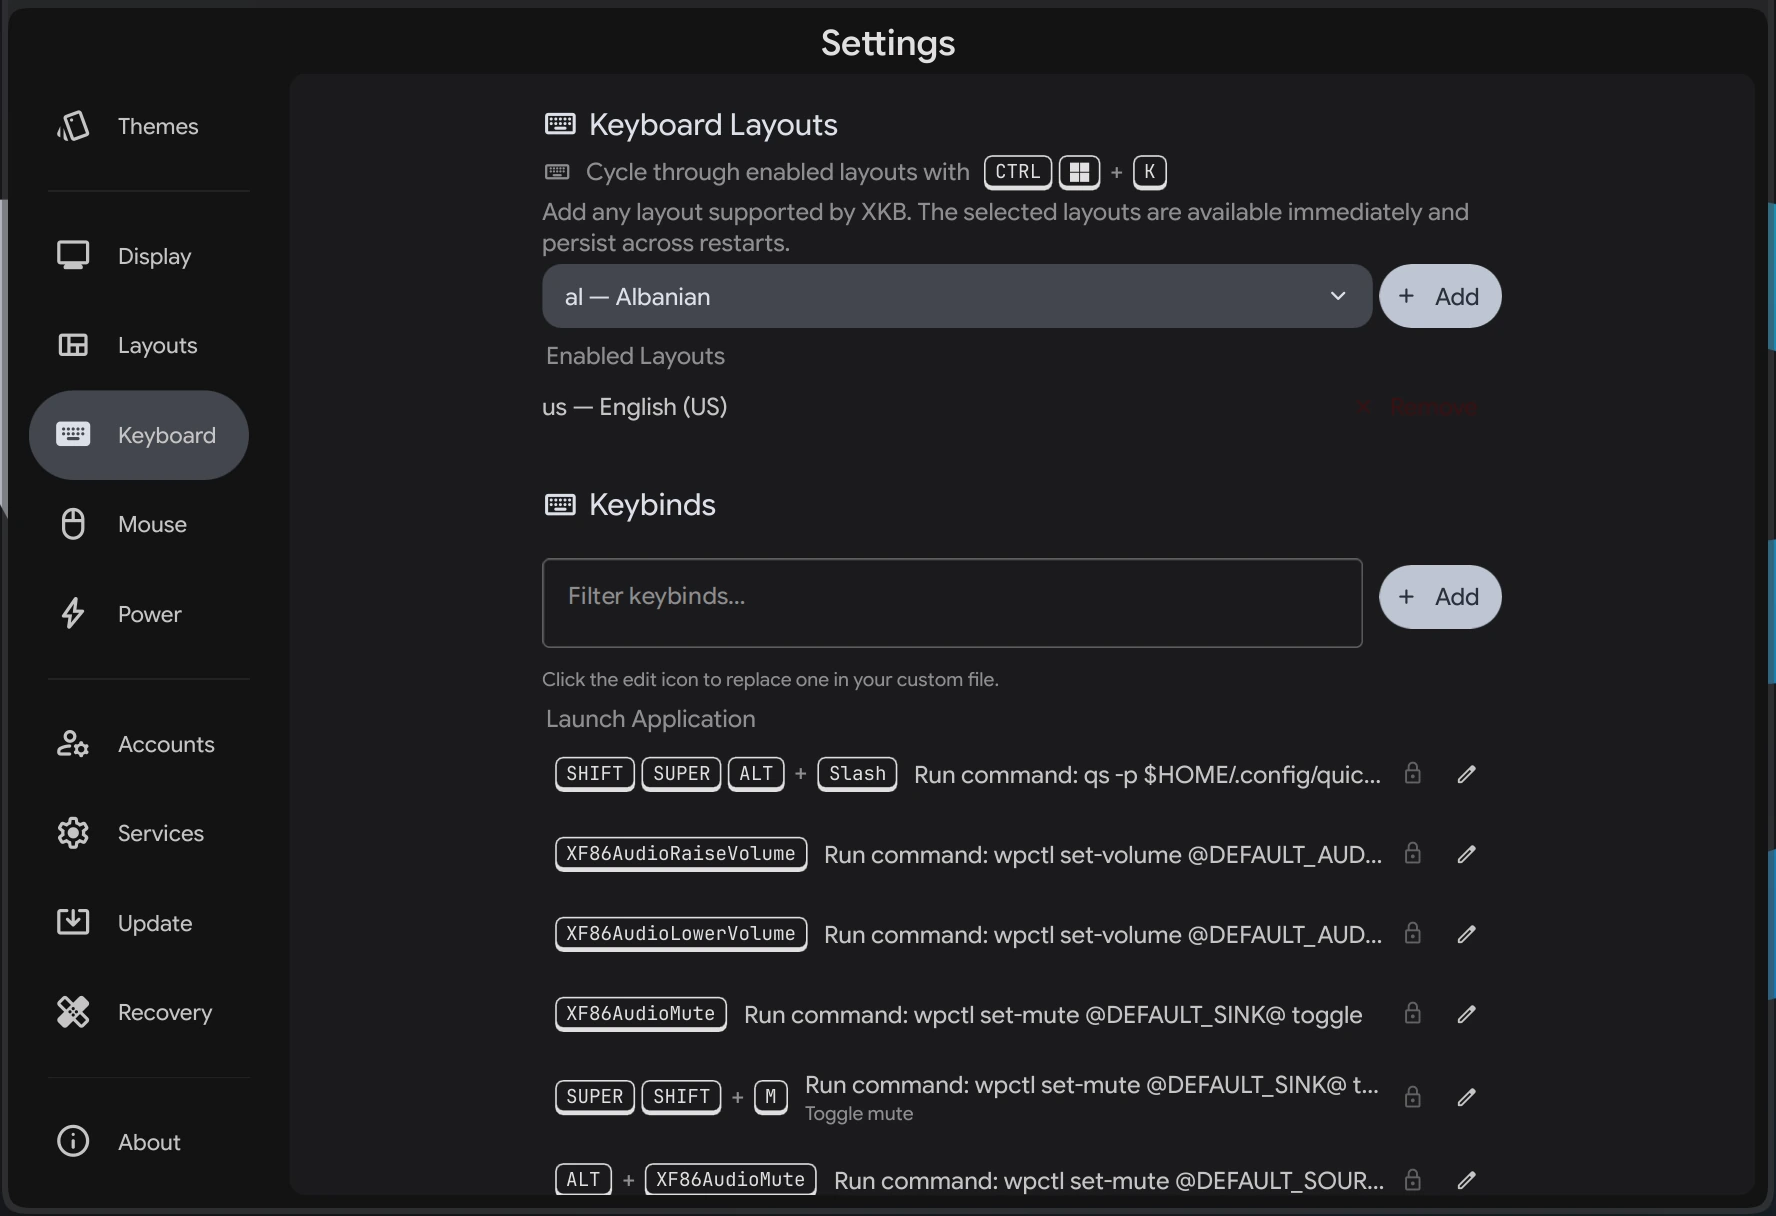
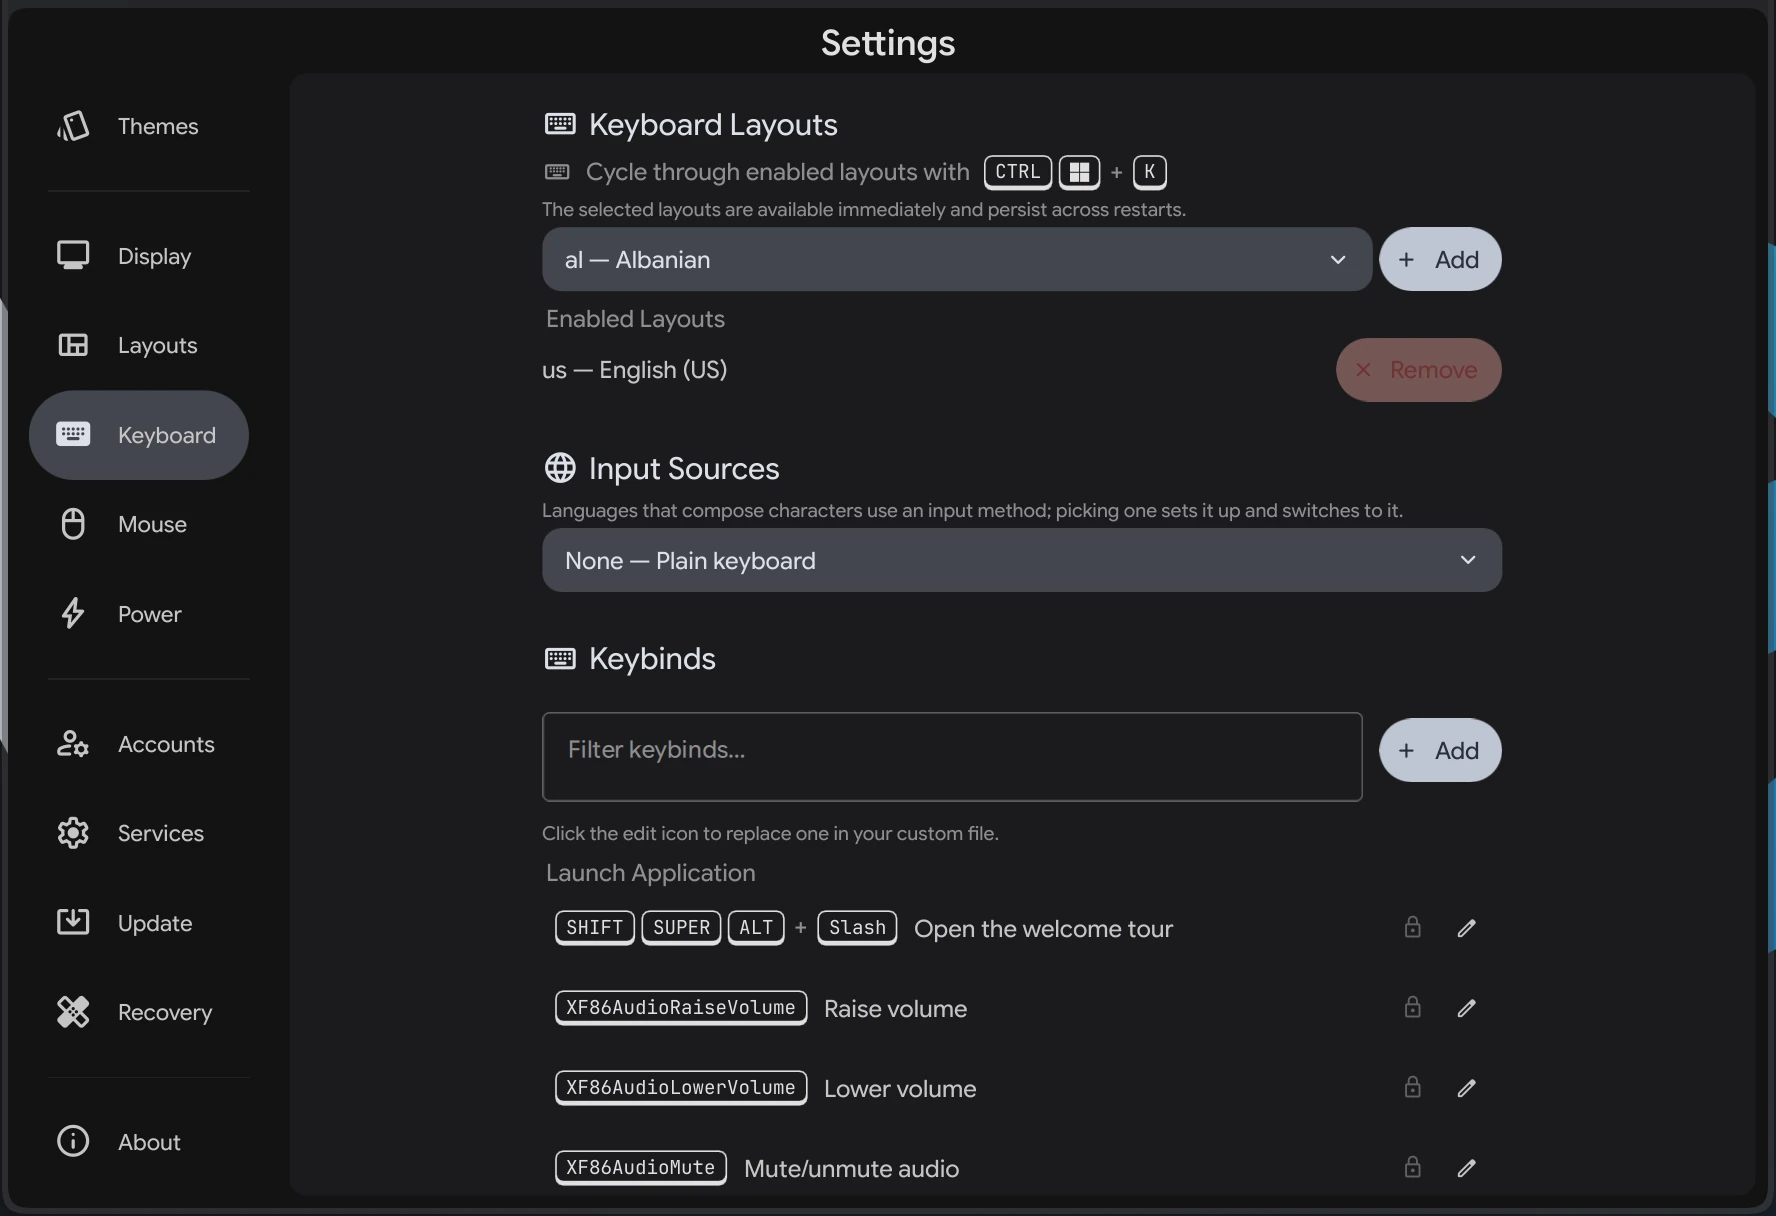
docs: the Keyboard page learns Input Sources
The Keyboard page now covers the Input Sources picker with a fresh
screenshot showing it in place, and the layouts wording drops the XKB
jargon the app itself no longer uses. The feature list catches up on
what shipped since: typing in Japanese, Chinese, Korean or Vietnamese
with the input method handled for you, printing without driver hunts
or unlock prompts, and the local AI assistant in the sidebar.

diff --git a/docs-pages.js b/docs-pages.js
@@ -1011,17 +1011,21 @@ PAGES.layouts = {
 // ---------- KEYBOARD ----------
 PAGES.keyboard = {
   group: 'Settings', title: 'Keyboard', icon: 'keyboard',
-  lede: 'What your keyboard types and what it does. Add the layouts you write in and switch between them with a keystroke, then browse, retune and extend every shortcut on the system without hand-editing a config file.',
+  lede: 'What your keyboard types and what it does. Add the layouts you write in and switch between them with a keystroke, pick an input source to type languages that compose characters, then browse, retune and extend every shortcut on the system without hand-editing a config file.',
   render: () => `
-    ${shot('KeyboardConfig.webp','Keyboard page — layouts on top, the searchable keybind list below')}
+    ${shot('KeyboardConfig.webp?v=2','Keyboard page: layouts and input sources on top, the searchable keybind list below')}
 
     <h2>Keyboard layouts</h2>
-    <p>Pick any layout XKB supports from the dropdown and press <strong>Add</strong>. It is available straight away, with no logout, and it is still there after a restart.</p>
+    <p>Pick a layout from the dropdown, or search for it, and press <strong>Add</strong>. It is available straight away, with no logout, and it is still there after a restart.</p>
     <p><strong>Enabled Layouts</strong> lists what you have added. <strong>Remove</strong> takes one back off. Keep as many as you write in and drop the rest.</p>
     <div class="props">
       <div class="prop"><center><div class="k">Cycle layouts</div></center><div class="v">Press <code>CTRL</code> + <code>SUPER</code> (the ⊞ Windows or ⌘ Command key) + <code>K</code> to step through your enabled layouts. With two added it reads as a straight toggle between them.</div></div>
     </div>
     ${callout('tip','Adding a second language', '<p>Add the layout you need, leave <b>us — English (US)</b> in place, and the shortcut flips between the two. Nothing else has to change: the layout you are on applies everywhere, including the lock screen.</p>')}
+
+    <h2>Input sources</h2>
+    <p>Languages such as Japanese, Chinese, Korean and Vietnamese build characters as you type, which takes an <em>input method</em> rather than another layout. Pick the language under <strong>Input Sources</strong> and Mainstream installs the right input method, wires it up, and switches to it; one password prompt and it is ready. <strong>None (Plain keyboard)</strong> is the way back out.</p>
+    <p>If you installed Mainstream in one of these languages, this is already set up and ready to type.</p>
 
     <h2>Finding a shortcut</h2>
     <p>Type in <strong>Filter keybinds…</strong> to narrow the list. Bindings are grouped by what they do: Launch Application, Window Management, Workspace Navigation, Focus and Move Windows, and so on.</p>

diff --git a/index.html b/index.html
@@ -401,7 +401,7 @@
   </div>
 </div>
 
-<script src="docs-pages.js?v=147"></script>
+<script src="docs-pages.js?v=148"></script>
 <script src="welcome-warm.js?v=36"></script>
 <script src="docs-app.js?v=136"></script>
 <script>

diff --git a/FEATURES.md b/FEATURES.md
@@ -39,6 +39,7 @@ Eighteen pages cover the whole machine, nine of which are Mainstream's own work 
 - **Displays.** Arrange your monitors and set resolution, refresh rate, scale, orientation, HDR and color profiles, or mirror one screen onto another.
 - **A layout per workspace.** Four ways of arranging windows automatically plus a floating mode, and every workspace remembers its own.
 - **Keyboard shortcuts.** A real editor rather than a printed list — change the ones that ship, add your own, and set them by pressing the keys you want.
+- **Type in any language.** Add the keyboard layouts you write in and flip between them with a keystroke. For Japanese, Chinese, Korean or Vietnamese, pick an input source and the right input method is installed and switched on for you. Installs done in those languages arrive with it already working.
 - **Touchpad gestures.** Choose what each swipe and pinch does, applied the moment you set it.
 - **Wi-Fi, Bluetooth, sound, power, accounts and services**, each with a proper page instead of a text file.
 
@@ -51,6 +52,8 @@ Eighteen pages cover the whole machine, nine of which are Mainstream's own work 
 - **Pick up where you left off.** Sign out or restart and your windows reopen on the workspaces they were on. The session is written down as you work, so a crash costs you no more than a tidy sign-out would.
 - **Move files between your devices.** Send several at once to any phone, tablet, or computer on your network running [LocalSend](https://localsend.org), and receive from them the same way, with live progress and no cloud in the middle. Mainstream builds LocalSend into the desktop rather than bundling the app.
 - **Screen sharing and recording.** Share your screen in video calls and record it on Wayland, with GPU-accelerated encoding.
+- **Printing that just works.** Plug a printer in, or pick one up on the network, and print. No driver hunting and no unlock prompts.
+- **A local AI assistant.** The sidebar chats with an AI that runs entirely on your machine, so nothing you type leaves it. The first message walks you through the short setup, and cloud models can be added with a key if you want them.
 - **Auto Mount and Uninstall Apps**, two small apps for the fiddly parts: drives that are ready at every login, and removing software without breaking the desktop.
 
 ## Getting it installed
